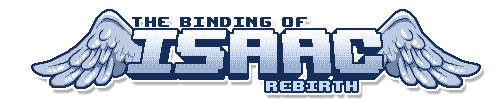
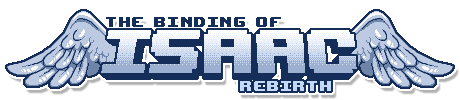
Improved menu

diff --git a/src/menu/intro_screen.py b/src/menu/intro_screen.py
@@ -1,3 +1,5 @@
+import math
+
 import pygame
 
 from config import FPS
@@ -7,9 +9,32 @@ class IntroScreen:
     def __init__(self, menu):
         self.menu = menu
         self.game = menu.game
+        self.last_change_time = pygame.time.get_ticks()
+        self.current_image = 1
+        self.main_title = pygame.transform.scale(
+            self.menu.main_title,
+            (
+                self.menu.main_title.get_width() * 1.5,
+                self.menu.main_title.get_height() * 1.5,
+            ),
+        )
+        self.main_title_position = (
+            self.game.settings.WIN_WIDTH // 2 - self.main_title.get_width() // 2,
+            self.game.settings.WIN_HEIGHT // 2 - self.main_title.get_height(),
+        )
+
+        self.start_time = pygame.time.get_ticks()
 
     def display(self):
         self.game.sound_manager.play_with_fadein("intro", 2000, looped=True)
+        spotlightcry1 = self.game.image_loader.images_dict["spotlightcry1"]
+        spotlightcry2 = self.game.image_loader.images_dict["spotlightcry2"]
+        spotlightcry_pos = (
+            self.game.settings.WIN_WIDTH // 2 - spotlightcry1.get_width() // 2,
+            self.game.settings.WIN_HEIGHT // 2 - spotlightcry1.get_height() // 2,
+        )
+        overlay = self.game.image_loader.images_dict["introoverlay"]
+
         while self.game.intro_playing:
             for event in pygame.event.get():
                 if event.type == pygame.QUIT:
@@ -24,6 +49,43 @@ class IntroScreen:
                     self.game.intro_playing = False
                     self.game.menu_playing = True
 
+            current_time = pygame.time.get_ticks()
+            if current_time - self.last_change_time >= 200:
+                self.current_image = 2 if self.current_image == 1 else 1
+                self.last_change_time = current_time
+
             self.game.screen.blit(self.menu.intro_background, (0, 0))
+
+            if self.current_image == 1:
+                self.game.screen.blit(spotlightcry1, spotlightcry_pos)
+            else:
+                self.game.screen.blit(spotlightcry2, spotlightcry_pos)
+
+            self.display_tilted_main_title_enlarged()
+            self.game.screen.blit(overlay, (0, 0))
+
             self.game.clock.tick(FPS)
             pygame.display.update()
+
+    def display_tilted_main_title_enlarged(self):
+        time_passed = pygame.time.get_ticks() - self.start_time
+        tilt_angle = math.sin(time_passed / 500) * 1
+
+        tilted_enlarged_main_title = pygame.transform.rotate(
+            self.main_title, tilt_angle
+        )
+
+        new_x = (
+            self.main_title_position[0]
+            - (tilted_enlarged_main_title.get_width() - self.main_title.get_width()) / 2
+        )
+        new_y = (
+            self.main_title_position[1]
+            - (tilted_enlarged_main_title.get_height() - self.main_title.get_height())
+            / 2
+        )
+        tilted_enlarged_main_title_position = (new_x, new_y)
+
+        self.game.screen.blit(
+            tilted_enlarged_main_title, tilted_enlarged_main_title_position
+        )

diff --git a/src/menu/menu.py b/src/menu/menu.py
@@ -1,3 +1,5 @@
+import math
+
 import pygame
 
 from config import FPS
@@ -14,6 +16,7 @@ class Menu:
     def __init__(self, game):
         self.game = game
         self.update_images()
+        self.start_time = pygame.time.get_ticks()
 
         self.intro_screen = IntroScreen(self)
         self.character_selection_screen = CharacterSelectionScreen(self)
@@ -37,7 +40,12 @@ class Menu:
         self.menu_background = self.game.image_loader.get_image("menuoverlay")
         self.pause_card = self.game.image_loader.get_image("pausecard")
         self.arrow = self.game.image_loader.get_image("arrow")
+
         self.main_title = self.game.image_loader.get_image("maintitle")
+        self.main_title_position = (
+            self.game.settings.WIN_WIDTH // 2 - self.main_title.get_width() // 2,
+            0,
+        )
 
     def display_main_menu(self):
         self.game.sound_manager.play_with_fadein("menuMusic", 2000, looped=True)
@@ -56,6 +64,7 @@ class Menu:
             ),
         ]
         current_arrow = 0
+        start_time = pygame.time.get_ticks()
 
         while self.game.menu_playing:
             for event in pygame.event.get():
@@ -108,9 +117,7 @@ class Menu:
 
             self.game.screen.blit(self.menu_card, (0, 0))
             self.game.screen.blit(self.menu_background, (0, 0))
-            self.game.screen.blit(
-                self.main_title, (self.game.settings.WIN_WIDTH // 8, 0)
-            )
+            self.display_tilted_main_title()
 
             self.game.screen.blit(
                 self.arrow,
@@ -119,6 +126,24 @@ class Menu:
 
             self.game.clock.tick(FPS)
             pygame.display.update()
+
+    def display_tilted_main_title(self):
+        time_passed = pygame.time.get_ticks() - self.start_time
+        tilt_angle = math.sin(time_passed / 500) * 1
+
+        tilted_main_title = pygame.transform.rotate(self.main_title, tilt_angle)
+
+        new_x = (
+            self.main_title_position[0]
+            - (tilted_main_title.get_width() - self.main_title.get_width()) / 2
+        )
+        new_y = (
+            self.main_title_position[1]
+            - (tilted_main_title.get_height() - self.main_title.get_height()) / 2
+        )
+        tilted_main_title_position = (new_x, new_y)
+
+        self.game.screen.blit(tilted_main_title, tilted_main_title_position)
 
     def display_intro_screen(self):
         self.intro_screen.display()

diff --git a/src/utils/image_loader.py b/src/utils/image_loader.py
@@ -24,9 +24,23 @@ class ImageLoader:
             "maintitle",
             "character_selection",
             "level_loading_background",
+            "spotlightcry1",
+            "spotlightcry2",
+            "introoverlay",
         ]
 
-        self.minis_ = ["player", "final_boss", "1", "2", "3", "4", "5", "6", "7", "corridor"]
+        self.minis_ = [
+            "player",
+            "final_boss",
+            "1",
+            "2",
+            "3",
+            "4",
+            "5",
+            "6",
+            "7",
+            "corridor",
+        ]
         self.minis = {}
 
         self.characters = [
@@ -125,14 +139,15 @@ class ImageLoader:
             self.bosses[boss] = pygame.image.load(
                 f"resources/mobs/bosses/{boss}.png"
             ).convert_alpha()
-        
+
         self.load_bosses_hit_animations()
 
     def load_bosses_hit_animations(self):
         bosses = ["satan", "satan2", "forsaken"]
         for boss in bosses:
-            self.bosses[boss + "_hit"] = ImageTransformer.change_image_to_more_red(self.bosses[boss])
-
+            self.bosses[boss + "_hit"] = ImageTransformer.change_image_to_more_red(
+                self.bosses[boss]
+            )
 
     def load_others(self):
         others = ["laser", "laser_opacity", "death_animation", "large_dust"]
@@ -367,6 +382,25 @@ class ImageLoader:
         ).convert_alpha()
         self.images_dict["level_loading_background"] = pygame.transform.scale(
             self.images_dict["level_loading_background"], screen_size
+        ).convert_alpha()
+        self.images_dict["introoverlay"] = pygame.transform.scale(
+            self.images_dict["introoverlay"], screen_size
+        ).convert_alpha()
+
+        img = self.images_dict["spotlightcry1"]
+        self.images_dict["spotlightcry1"] = pygame.transform.scale(
+            img,
+            (
+                img.get_width() * 3.5 * self.settings.SCALE,
+                img.get_height() * 3.5 * self.settings.SCALE,
+            ),
+        ).convert_alpha()
+        self.images_dict["spotlightcry2"] = pygame.transform.scale(
+            self.images_dict["spotlightcry2"],
+            (
+                img.get_width() * 3.5 * self.settings.SCALE,
+                img.get_width() * 3.5 * self.settings.SCALE,
+            ),
         ).convert_alpha()
 
         img = self.images_dict["spotlight"]

diff --git a/src/menu/settings_screen/resolution_settings_screen.py b/src/menu/settings_screen/resolution_settings_screen.py
@@ -76,9 +76,7 @@ class ResolutionSettingsScreen:
 
             self.game.screen.blit(self.menu.resolution_settings_card, (0, 0))
             self.game.screen.blit(self.menu.menu_background, (0, 0))
-            self.game.screen.blit(
-                self.menu.main_title, (self.game.settings.WIN_WIDTH // 8, 0)
-            )
+            self.menu.display_tilted_main_title()
 
             self.game.screen.blit(
                 self.menu.arrow,

diff --git a/src/menu/settings_screen/audio_settings_screen.py b/src/menu/settings_screen/audio_settings_screen.py
@@ -145,9 +145,7 @@ class AudioSettingsScreen:
 
             self.game.screen.blit(self.menu.sound_settings_card, (0, 0))
             self.game.screen.blit(self.menu.menu_background, (0, 0))
-            self.game.screen.blit(
-                self.menu.main_title, (self.game.settings.WIN_WIDTH // 8, 0)
-            )
+            self.menu.display_tilted_main_title()
 
             self.game.screen.blit(
                 self.menu.arrow,

diff --git a/src/menu/settings_screen/main_settings_screen.py b/src/menu/settings_screen/main_settings_screen.py
@@ -67,9 +67,7 @@ class MainSettingsScreen:
 
             self.game.screen.blit(self.menu.settings_card, (0, 0))
             self.game.screen.blit(self.menu.menu_background, (0, 0))
-            self.game.screen.blit(
-                self.menu.main_title, (self.game.settings.WIN_WIDTH // 8, 0)
-            )
+            self.menu.display_tilted_main_title()
 
             self.game.screen.blit(
                 self.menu.arrow,

diff --git a/src/menu/character_selection_screen.py b/src/menu/character_selection_screen.py
@@ -85,9 +85,7 @@ class CharacterSelectionScreen:
                 ),
             )
             self.game.screen.blit(self.menu.menu_background, (0, 0))
-            self.game.screen.blit(
-                self.menu.main_title, (self.game.settings.WIN_WIDTH // 8, 0)
-            )
+            self.menu.display_tilted_main_title()
 
             self.game.clock.tick(FPS)
             pygame.display.update()
